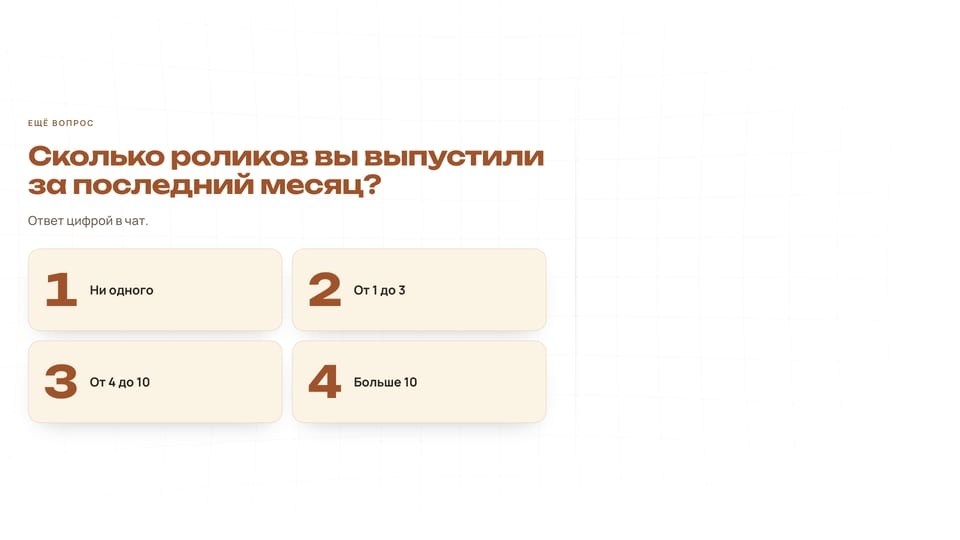
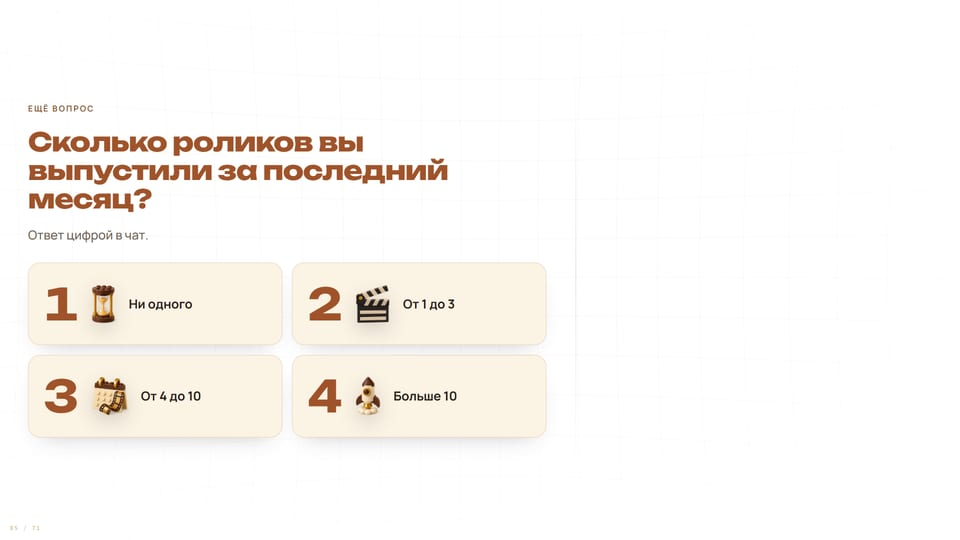
Deck: cases carousel 08c, Instagram screenshot on 08, corrected timeline 08w
- 08c: auto-carousel of three verified cases (Erickson, The One System, onAI Academy) with links to onai.academy/saint
- 08: phone removed, rounded Instagram profile screenshot, positioning as a developer without programming knowledge
- 08w: timeline 2017-2023 targeting, 2023 AI, 2025 vibe coding, August 2026 montage tech, September 2026 Instagram
- 04: icons on answer cards
- contentMinWidth 0 on text slides so the column never crosses the camera line
- cases harvest prompts for the GitHub agent (local and cloud)

diff --git a/components/montage-deck/slides/cases.tsx b/components/montage-deck/slides/cases.tsx
@@ -1,0 +1,88 @@
+"use client";
+
+import { useEffect, useState } from "react";
+import { AnimatePresence, motion } from "framer-motion";
+import { CASES, type BizCase } from "../cases";
+import { Statement } from "../Statement";
+import { T, card } from "../theme";
+import { EASE, Em, Note, txt } from "../ui";
+
+/**
+ * 08c · Что я собрал для бизнеса: автокарусель кейсов. Окно браузера с экраном решения сменяется каждые 3,4 с,
+ * за ним выглядывает следующий кейс, сверху полоса «историй» показывает, сколько решений и какое сейчас.
+ * Данные — components/montage-deck/cases.ts. Всё в левых 60% кадра.
+ */
+
+const HOLD = 3.4; // секунд на кейс
+
+/** Окно браузера: полоса с тремя точками и адресом страницы кейса, под ней экран решения. */
+function Window({ c }: { c: BizCase }) {
+  return (
+    <div className="h-full w-full overflow-hidden" style={{ ...card, borderRadius: "1.2cqw", background: T.paper, boxShadow: T.shadow }}>
+      <div className="flex items-center" style={{ gap: "0.4cqw", padding: "0.55cqw 0.8cqw", borderBottom: `1px solid ${T.line}`, background: T.card }}>
+        {[T.gold, T.brownLt, T.line].map((col, k) => <span key={k} style={{ width: "0.55cqw", height: "0.55cqw", borderRadius: 99, background: col }} />)}
+        <span style={{ ...txt, fontSize: "0.72cqw", color: T.muted, marginLeft: "0.6cqw", whiteSpace: "nowrap", overflow: "hidden", textOverflow: "ellipsis" }}>{c.url}</span>
+      </div>
+      <img src={c.shot} alt={`Экран решения: ${c.title}`} draggable={false} style={{ display: "block", width: "100%", aspectRatio: "16 / 10", objectFit: "cover", objectPosition: "top" }} />
+    </div>
+  );
+}
+
+export function M_Cases() {
+  const n = CASES.length;
+  const [i, setI] = useState(0);
+  useEffect(() => {
+    const id = setInterval(() => setI((v) => (v + 1) % n), HOLD * 1000);
+    return () => clearInterval(id);
+  }, [n]);
+  const c = CASES[i];
+  const next = CASES[(i + 1) % n];
+
+  return (
+    <Statement kicker="Вайбкодинг · решения для бизнеса" title={<>Что я собрал для бизнеса <Em>без программистов</Em></>} size="2.7cqw">
+      {/* Полоса «историй»: сколько решений и какое на экране */}
+      <div className="grid" style={{ gridTemplateColumns: `repeat(${n}, minmax(0, 1fr))`, gap: "0.6cqw", maxWidth: "54cqw", marginBottom: "1.2cqw" }}>
+        {CASES.map((x, k) => (
+          <div key={x.slug} className="min-w-0">
+            <div style={{ height: "0.35cqw", borderRadius: 99, background: `${T.brown}1F`, overflow: "hidden" }}>
+              {k < i && <div style={{ width: "100%", height: "100%", background: T.gold2 }} />}
+              {k === i && <motion.div key={`fill-${i}`} initial={{ width: "0%" }} animate={{ width: "100%" }} transition={{ duration: HOLD, ease: "linear" }}
+                style={{ height: "100%", background: `linear-gradient(90deg, ${T.gold}, ${T.gold2})` }} />}
+            </div>
+            <div style={{ ...txt, fontSize: "0.8cqw", fontWeight: 700, marginTop: "0.45cqw", color: k === i ? T.brown : T.muted, whiteSpace: "nowrap", overflow: "hidden", textOverflow: "ellipsis", transition: "color .3s" }}>{x.title}</div>
+          </div>
+        ))}
+      </div>
+
+      <div className="grid items-center" style={{ gridTemplateColumns: "32cqw minmax(0, 1fr)", gap: "2cqw", maxWidth: "54cqw" }}>
+        <div className="relative" style={{ aspectRatio: "16 / 11.3", perspective: "90cqw" }}>
+          {/* Следующий кейс выглядывает сзади снизу справа: видно, что решений больше одного, а его адресная строка спрятана за передним окном */}
+          {n > 1 && (
+            <div className="absolute inset-0" style={{ transform: "translate(1.2cqw, 1.1cqw) scale(0.95)", transformOrigin: "bottom right", opacity: 0.4, filter: "saturate(.7)" }}>
+              <Window c={next} />
+            </div>
+          )}
+          <AnimatePresence initial={false} mode="popLayout">
+            <motion.div key={c.slug} className="absolute inset-0" initial={{ opacity: 0, x: "5cqw", rotateY: -14, scale: 0.97 }} animate={{ opacity: 1, x: "0cqw", rotateY: 0, scale: 1 }}
+              exit={{ opacity: 0, x: "-5cqw", rotateY: 14, scale: 0.97 }} transition={{ duration: 0.6, ease: EASE }} style={{ transformOrigin: "center" }}>
+              <Window c={c} />
+            </motion.div>
+          </AnimatePresence>
+        </div>
+
+        <AnimatePresence mode="wait" initial={false}>
+          <motion.div key={`info-${c.slug}`} className="min-w-0" initial={{ opacity: 0, y: "0.8cqw" }} animate={{ opacity: 1, y: "0cqw" }} exit={{ opacity: 0, y: "-0.6cqw" }} transition={{ duration: 0.35, ease: EASE }}>
+            <div style={{ ...txt, fontSize: "0.85cqw", fontWeight: 700, letterSpacing: ".1em", textTransform: "uppercase", color: T.accent }}>{c.niche}</div>
+            <div style={{ fontFamily: "var(--font-unbounded)", fontWeight: 700, fontSize: "1.6cqw", lineHeight: 1.15, color: T.brown, marginTop: "0.5cqw" }}>{c.title}</div>
+            <div style={{ ...txt, fontSize: "1.2cqw", fontWeight: 700, lineHeight: 1.3, marginTop: "0.8cqw" }}>{c.oneLiner}</div>
+            <div style={{ display: "inline-block", marginTop: "1cqw", borderRadius: 14, padding: "0.6cqw 0.9cqw", border: `1px solid ${T.gold2}`, background: `${T.gold}24`, ...txt, fontSize: "0.95cqw", fontWeight: 700 }}>
+              {/* части метрики не рвутся внутри, точка остаётся в конце строки, а не в начале следующей */}
+              {c.metric.split(" · ").map((p, k, all) => <span key={k}><span style={{ whiteSpace: "nowrap" }}>{p}{k < all.length - 1 ? " ·" : ""}</span>{k < all.length - 1 ? " " : ""}</span>)}
+            </div>
+          </motion.div>
+        </AnimatePresence>
+      </div>
+      <Note style={{ marginTop: "1.3cqw", fontSize: "0.95cqw" }}>Все кейсы целиком: onai.academy/saint</Note>
+    </Statement>
+  );
+}

diff --git a/components/montage-deck/slides/start.tsx b/components/montage-deck/slides/start.tsx
@@ -144,26 +144,10 @@ export function M_Guides({ kicker, title, lead }: { kicker: string; title: strin
   );
 }
 
-/** Телефон с профилем Instagram: шапка профиля — скрин, ниже сетка рилсов, смонтированных агентом. */
-function ProfilePhone({ width = "12.4cqw" }: { width?: string }) {
-  // Рилсы агента и кадры настоящих роликов из форматов (слайд 23)
-  const grid = ["reels/mcp", "reels/zashita", "reels/google10", "reels/papka", "reels/podarok", "formats/01-polovina-ekrana", "formats/02-polovina-okno", "formats/03-kartochka-spikera", "formats/04-spiker-vnizu"];
-  return (
-    <div style={{ width, aspectRatio: "9/19", background: T.night, borderRadius: "1.9cqw", padding: "0.42cqw", boxShadow: `0 0 0 1px ${T.nightLine} inset, ${T.shadow}` }}>
-      <div className="relative h-full w-full overflow-hidden" style={{ borderRadius: "1.55cqw", background: T.paper }}>
-        <img src="/montage/profile.jpg" alt="Профиль saint4ai в Instagram: 15,6 тыс. подписчиков" style={{ display: "block", width: "100%", height: "auto", marginTop: "12%" }} />
-        <div className="grid grid-cols-3" style={{ gap: 1, marginTop: "4%" }}>
-          {grid.map((r) => <img key={r} src={`/montage/${r}.jpg`} alt="" style={{ width: "100%", aspectRatio: "3/4", objectFit: "cover", display: "block" }} />)}
-        </div>
-      </div>
-    </div>
-  );
-}
-
-/** 8 · Кто я: фото на свету, рядом скрин профиля в телефоне. alex-cacao.webp — alex.webp, где салатовый логотип на футболке перекрашен в золото бренда. */
+/** 8 · Кто я: фото на свету, рядом скрин профиля Instagram со скруглёнными углами. alex-cacao.webp — alex.webp, где салатовый логотип на футболке перекрашен в золото бренда. */
 export function M_About() {
   return (
-    <SlideLayout className="bg-transparent" background={<MontageBg tone="soft" />} objectColumnSize="25cqw" objectOverflow="visible"
+    <SlideLayout className="bg-transparent" background={<MontageBg tone="soft" />} objectColumnSize="25cqw" objectOverflow="visible" contentMinWidth={0}
       leftObject={
         <motion.div className="relative w-full h-full" initial={{ opacity: 0, y: "2cqw" }} animate={{ opacity: 1, y: "0cqw" }} transition={{ duration: 0.6, ease: EASE }}>
           {/* Свет: белый блик сверху и золотое пятно за спиной, без жёстких краёв */}
@@ -174,17 +158,19 @@ export function M_About() {
       }>
       <Rise><Kicker>Кто ведёт</Kicker></Rise>
       <Rise delay={STEP}><H size="3.4cqw">Александр</H></Rise>
-      <Rise delay={STEP * 2}><Lead style={{ marginTop: "0.8cqw", maxWidth: "31cqw" }}>Основатель onAI Academy. Собираю платформы обучения и сервисы для бизнеса с ИИ-агентами, без штатных программистов.</Lead></Rise>
-      <div className="flex items-end gap-[1.6cqw]" style={{ marginTop: "1.6cqw" }}>
-        <motion.div initial={{ opacity: 0, y: "2cqw", rotate: -4 }} animate={{ opacity: 1, y: "0cqw", rotate: 0 }} transition={{ delay: at(3, 0.2), duration: 0.55, ease: EASE }}>
-          <ProfilePhone />
-        </motion.div>
-        <Rise delay={at(4, 0.2)} style={{ paddingBottom: "0.6cqw" }}>
-          <Num size="3cqw" color={T.brown}>1000+</Num>
-          <div style={{ ...label, fontSize: "0.95cqw", color: T.muted, fontWeight: 500, maxWidth: "15cqw", marginTop: "0.6cqw" }}>выпускников за два года по внедрению ИИ в бизнес</div>
-          <Note style={{ marginTop: "1.2cqw", maxWidth: "15cqw" }}>Профиль Instagram на 26 сентября 2026</Note>
-        </Rise>
-      </div>
+      {/* Позиционирование — слова Александра 05.10: «разработчик без знаний программирования, разрабатываю IT-решения для бизнеса» */}
+      <Rise delay={STEP * 2}><Lead style={{ marginTop: "0.8cqw", maxWidth: "29cqw" }}>Разработчик без знаний программирования: собираю IT-решения для бизнеса с <span style={{ whiteSpace: "nowrap" }}>ИИ-агентами</span>. Основатель onAI Academy.</Lead></Rise>
+      {/* Скрин профиля Instagram без рамки телефона, со скруглёнными углами (правка Александра 05.10) */}
+      <motion.div initial={{ opacity: 0, y: "1.6cqw", scale: 0.97 }} animate={{ opacity: 1, y: "0cqw", scale: 1 }} transition={{ delay: at(3, 0.2), duration: 0.55, ease: EASE }}
+        style={{ marginTop: "1.6cqw", maxWidth: "29cqw" }}>
+        <img src="/montage/profile.jpg" alt="Профиль saint4ai в Instagram" draggable={false}
+          style={{ display: "block", width: "100%", height: "auto", borderRadius: "1.2cqw", border: `1px solid ${T.line}`, boxShadow: T.shadow, background: T.paper }} />
+      </motion.div>
+      <Rise delay={at(4, 0.2)} className="flex items-center" style={{ gap: "1.1cqw", marginTop: "1.4cqw", maxWidth: "29cqw" }}>
+        <Num size="3cqw" color={T.brown}>1000+</Num>
+        <div style={{ ...label, fontSize: "1cqw", color: T.muted, fontWeight: 500 }}>выпускников за два года по внедрению ИИ в бизнес</div>
+      </Rise>
+      <Note style={{ marginTop: "0.9cqw" }}>Профиль Instagram на 26 сентября 2026</Note>
     </SlideLayout>
   );
 }

diff --git a/components/montage-deck/slides/warmup.tsx b/components/montage-deck/slides/warmup.tsx
@@ -76,21 +76,22 @@ export const Bridge = ({ i, children }: { i: number; children: ReactNode }) => (
 );
 
 /**
- * 08w · Хронология: как я пришёл к ИИ-монтажу. Главный этап — 2 месяца учил агентов премиальному монтажу
- * (слова Александра 04.10). Путь без денег (деньги — на 09), последний шаг — сегодня, в конце мост к цифрам 10v–10i.
+ * 08w · Хронология: путь от таргетолога до ИИ-монтажа. Даты — слова Александра 05.10: таргетолог 2017–2023, с 2023 внедряет ИИ
+ * (три года), с 2025 вайбкодинг (продукты и платформы), в августе 2026 готовил технологию ИИ-монтажа и обучал агентов,
+ * в сентябре вернулся в Instagram и до 30.09 вёл контент с ИИ. Деньги — на 09, в конце мост к кейсам 08c и цифрам 10.
  */
 export function M_MyPath() {
   return (
-    <Statement kicker="Хронология" title={<>Как я пришёл <Em>к ИИ-монтажу</Em></>} size="2.8cqw">
+    <Statement kicker="Хронология" title={<>От таргетолога <Em>до <span style={{ whiteSpace: "nowrap" }}>ИИ-монтажа</span></Em></>} size="2.8cqw">
       <Path dt={0.2} steps={[
-        { when: "Начинал", what: "Таргетолог", text: "Запускал рекламу клиентам" },
-        { when: "3 года", what: "No-code и вайбкодинг", text: "ИИ-менеджеры для бизнеса, потом свои продукты на Claude без штатных программистов" },
-        { when: "Апрель 2026", what: "Вернулся в Instagram", text: <Fill>сколько часов уходило на монтаж одного ролика до агента</Fill> },
-        { when: <Fill>месяцы</Fill>, what: "2 месяца учил агентов премиальному монтажу", text: "9 стилей и 6 форматов: агент собирает ролик сам" },
-        { when: "Сейчас", what: "Рилсы монтирует агент — и они приводят клиентов", text: <Fill>момент, когда решил отдать монтаж агенту</Fill>, now: true },
+        { when: "2017–2023", what: "Таргетолог", text: "Запускал рекламу клиентам" },
+        { when: "2023", what: "Начал внедрять ИИ в бизнес", text: "ИИ-менеджеры и автоматизации для клиентов" },
+        { when: "2025", what: "Вайбкодинг", text: "Собираю продукты и платформы для бизнеса без знаний программирования" },
+        { when: "Август 2026", what: "Обучил агентов премиальному монтажу", text: "9 стилей и 6 форматов: агент собирает ролик сам" },
+        { when: "Сентябрь 2026", what: "Вернулся в Instagram: ролики монтирует агент", text: "Весь месяц выпускал контент с ИИ, и он приводит клиентов", now: true },
       ]} />
-      <Note style={{ marginTop: "1.1cqw" }}>Эти два месяца вам повторять не нужно: стили и форматы остаются у вас после обучения</Note>
-      <Bridge i={7}>Что это дало — в цифрах</Bridge>
+      <Note style={{ marginTop: "1.1cqw" }}>Подготовку технологии вам повторять не нужно: стили и форматы остаются у вас после обучения</Note>
+      <Bridge i={7}>Что я уже собрал для бизнеса</Bridge>
     </Statement>
   );
 }

diff --git a/components/montage-deck/cases.ts b/components/montage-deck/cases.ts
@@ -1,0 +1,45 @@
+/**
+ * Кейсы для карусели 08c «Что я собрал для бизнеса».
+ * Сейчас три кейса, уже упакованные для сайта onai.academy/saint: факты из CASE_SOURCES.md и пакетов кейсов (срез 04.10.2026),
+ * кадры — обезличенные скриншоты из projects/saint_landing/public/assets/cases (уменьшены до 1600×1000).
+ * Новые кейсы добавляет агент-сборщик (docs/tasks/cases_harvest_prompt.md): из cases.json сюда переносятся title, niche, oneLiner, metric, shot, url.
+ */
+export type BizCase = {
+  slug: string;
+  title: string; // название решения или клиента, если клиент разрешил
+  niche: string; // для кого
+  oneLiner: string; // что даёт бизнесу, до 9 слов
+  metric: string; // проверенные цифры через «·»
+  shot: string; // кадр 16:10 в public/montage/cases/
+  url: string; // страница кейса без https://
+};
+
+export const CASES: BizCase[] = [
+  {
+    slug: "erickson",
+    title: "Erickson Central Asia",
+    niche: "Коучинговый университет",
+    oneLiner: "Платформа обучения с AI-куратором и менторингами",
+    metric: "50 студентов · 81 урок · запуск за 2 месяца",
+    shot: "/montage/cases/erickson.webp",
+    url: "onai.academy/saint/cases/erickson",
+  },
+  {
+    slug: "the-one-system",
+    title: "The One System",
+    niche: "Бизнес-школа, Алматы",
+    oneLiner: "Своя платформа обучения с AI за 9 недель",
+    metric: "78 экранов · 3 роли · 2 языка",
+    shot: "/montage/cases/the-one-system.webp",
+    url: "onai.academy/saint/cases/the-one-system",
+  },
+  {
+    slug: "onai-academy",
+    title: "onAI Academy",
+    niche: "Моя онлайн-школа",
+    oneLiner: "AI-наставник отвечает ученикам по каждому уроку",
+    metric: "318 учеников · 113 уроков · 595 вопросов наставнику",
+    shot: "/montage/cases/onai-academy.webp",
+    url: "onai.academy/saint/cases/onai-academy",
+  },
+];

diff --git a/components/montage-deck/MontageDeck.tsx b/components/montage-deck/MontageDeck.tsx
@@ -19,6 +19,7 @@ import { M_Bottleneck, M_Vacancy, M_ThreeSeconds, M_OnePhrase, M_OneOf14, M_Agen
 import { M_Case107, M_Want, M_WhoFirst, M_NotCourse, M_Anchor, M_Installments, M_Discount, M_SixMonths, M_HowToBook, M_Inaction, M_OneScreen, M_Doubts, M_Subscriptions, M_Slots, M_FinalCTA, M_GameBonus } from "./slides/sale";
 import { M_ShopReel, M_ShopAd, M_ShopLead, M_ForYou, M_SoloVsCourse } from "./slides/directions";
 import { M_MyPath } from "./slides/warmup";
+import { M_Cases } from "./slides/cases";
 import { M_ResultMontage, M_ViralReels, M_Growth30, M_Inquiries } from "./slides/results";
 import { M_CodeWordFlow, M_Plan30, M_Thanks } from "./slides/lesson3";
 import { M_IntroVideo } from "./slides/intro";
@@ -38,13 +39,14 @@ export function MontageDeck({ shots = {} }: { shots?: Shots }) {
       options={["Эксперт, у меня свой продукт", "Не хочу сниматься сам", "SMM, делаю рилсы для клиентов", "Хочу брать заказы на монтаж"]}
       icons={["lg-i-stall", "lg-i-camera", "lg-i-phones", "lg-i-laptopcoins"]} />,
     <M_Poll key="04" kicker="Ещё вопрос" title="Сколько роликов вы выпустили за последний месяц?" lead="Ответ цифрой в чат."
-      options={["Ни одного", "От 1 до 3", "От 4 до 10", "Больше 10"]} />,
+      options={["Ни одного", "От 1 до 3", "От 4 до 10", "Больше 10"]} icons={["lg-i-hourglass", "lg-i-clapper", "lg-i-calfilm", "lg-i-rocket"]} />,
     <M_Program key="05" />,
     <M_Promise key="06" />,
     <M_Guides key="07" kicker="Бонус за досмотр" title={"Досмотрите до конца: три\u00A0гайда"} lead="Выдам в конце эфира по слову МОНТАЖ." />,
     // Кто я, хронология и результаты · 7 мин
     <M_About key="08" />,
     <M_MyPath key="08w" />,
+    <M_Cases key="08c" />,
     <M_CostStory key="09" />,
     <M_Proof15 key="10" />,
     <M_ViralReels key="10v" shots={shots.viral} />,

diff --git a/components/montage-deck/slides/sale.tsx b/components/montage-deck/slides/sale.tsx
@@ -77,7 +77,7 @@ export function M_Case107() {
 /** 31 · Хотите так же? ХОЧУ. */
 export function M_Want() {
   return (
-    <SlideLayout className="bg-transparent" background={<MontageBg tone="soft" />}>
+    <SlideLayout className="bg-transparent" background={<MontageBg tone="soft" />} contentMinWidth={0}>
       <Rise><Kicker>Напишите в чат</Kicker></Rise>
       <BigWord word="ХОЧУ" size="10cqw" />
       <Rise delay={0.5}><H size="2.4cqw" style={{ marginTop: "1.6cqw" }}>если хотите монтировать <Em>так же</Em></H></Rise>
@@ -394,7 +394,7 @@ export function M_Slots() {
 /** 57 · Финальный призыв: МОНТАЖ золотом, пульс золотой кнопки, условия чипами. */
 export function M_FinalCTA() {
   return (
-    <SlideLayout className="bg-transparent" background={<MontageBg tone="soft" />}>
+    <SlideLayout className="bg-transparent" background={<MontageBg tone="soft" />} contentMinWidth={0}>
       <Rise><Kicker>Напишите в чат до 23:59</Kicker></Rise>
       <div className="flex items-center gap-[1.6cqw]"><BigWord word="МОНТАЖ" size="8cqw" /><Px name="lg-i-hourglass" size="9cqw" delay={0.7} /></div>
       <div className="flex flex-wrap gap-[0.6cqw]" style={{ marginTop: "2cqw", maxWidth: "52cqw" }}>

diff --git a/components/montage-deck/Statement.tsx b/components/montage-deck/Statement.tsx
@@ -16,7 +16,8 @@ export function Statement({ kicker, title, lead, children, tone = "paper", size 
 }) {
   const night = tone === "night" || tone === "ink";
   return (
-    <SlideLayout className="bg-transparent" background={<MontageBg tone={tone} />} leftObject={left} objectColumnSize={leftSize} objectOverflow={leftOverflow}>
+    // contentMinWidth 0: текстовая колонка всегда ровно до границы зоны камеры (60%), в узком окне не вылезает за линию
+    <SlideLayout className="bg-transparent" background={<MontageBg tone={tone} />} leftObject={left} objectColumnSize={leftSize} objectOverflow={leftOverflow} contentMinWidth={0}>
       {obj && <Px name={obj} size={objSize} style={{ marginBottom: "0.4cqw", marginLeft: "-0.9cqw" }} />}
       {kicker && <Rise><Kicker color={night ? T.gold : T.accent}>{kicker}</Kicker></Rise>}
       <Rise delay={STEP}><H size={size} color={night ? T.nightText : T.brown}>{title}</H></Rise>

diff --git a/components/montage-deck/slides/lesson3.tsx b/components/montage-deck/slides/lesson3.tsx
@@ -262,7 +262,7 @@ export function M_Plan30() {
 /** 59 ✦ · Спасибо. Ночной, фоном тот же тоннель свежих скринов и видео рилсов, что на обложке (CoverTunnel, карточки COVER_CARDS). Без контактов. */
 export function M_Thanks() {
   return (
-    <SlideLayout className="bg-transparent" background={<MontageBg tone="night"><CoverTunnel cards={COVER_CARDS} /></MontageBg>}>
+    <SlideLayout className="bg-transparent" background={<MontageBg tone="night"><CoverTunnel cards={COVER_CARDS} /></MontageBg>} contentMinWidth={0}>
       <div style={{ maxWidth: "31cqw" }}>
         <Rise><BrandLogo night height="1.8cqw" style={{ marginBottom: "3cqw" }} /></Rise>
         <Rise delay={STEP}><H size="4.2cqw" color={T.nightText} style={{ lineHeight: 1.05 }}>Спасибо,<br /><Em night><span style={{ whiteSpace: "nowrap" }}>что пришли</span></Em></H></Rise>

diff --git a/components/montage-deck/slides/lesson1.tsx b/components/montage-deck/slides/lesson1.tsx
@@ -333,7 +333,7 @@ export function M_StepAssemble() {
 /** 22 · Готовый ролик: телефон по центру левой зоны; слева подпись, справа чипы. */
 export function M_ReadyReel() {
   return (
-    <SlideLayout className="bg-transparent" background={<MontageBg />} contentClassName="items-center text-center">
+    <SlideLayout className="bg-transparent" background={<MontageBg />} contentClassName="items-center text-center" contentMinWidth={0}>
       <Rise><Kicker>Результат</Kicker></Rise>
       <Rise delay={STEP}><H size="3.4cqw">Готовый ролик</H></Rise>
       <div className="flex items-center justify-center gap-[2cqw]" style={{ marginTop: "2cqw", width: "100%" }}>

diff --git a/components/montage-deck/slides/M_Chapter.tsx b/components/montage-deck/slides/M_Chapter.tsx
@@ -17,7 +17,7 @@ export function M_Chapter({ big, kicker, title, sub, bigSize = "16cqw", obj }: {
   };
   const after = 0.45; // заголовок — сразу за цифрой
   return (
-    <SlideLayout className="bg-transparent" background={<MontageBg tone="night"><VoxelField /></MontageBg>}>
+    <SlideLayout className="bg-transparent" background={<MontageBg tone="night"><VoxelField /></MontageBg>} contentMinWidth={0}>
       <style>{`@keyframes ch-shine { from { background-position: 160% 0; } to { background-position: -60% 0; } }`}</style>
       <div className="flex items-end gap-[1.6cqw]">
         <motion.div className="relative" initial={{ opacity: 0, y: "3cqw", scale: 0.9 }} animate={{ opacity: 1, y: "0cqw", scale: 1 }}

diff --git a/components/montage-deck/slides/directions.tsx b/components/montage-deck/slides/directions.tsx
@@ -121,7 +121,7 @@ function Shop({ active, kicker, title, visual, side, lessons, conveyorStart }: {
   active: number; kicker: string; title: ReactNode; visual: ReactNode; side: ReactNode; lessons: string[]; conveyorStart: number;
 }) {
   return (
-    <SlideLayout className="bg-transparent" background={<MontageBg />}>
+    <SlideLayout className="bg-transparent" background={<MontageBg />} contentMinWidth={0}>
       <ChainHeader active={active} />
       <Rise><Kicker color={T.accent}>{kicker}</Kicker></Rise>
       <Rise delay={STEP}><H size="2.7cqw" color={T.brown}>{title}</H></Rise>

diff --git a/docs/tasks/cases_harvest_prompt_cloud.md b/docs/tasks/cases_harvest_prompt_cloud.md
@@ -1,0 +1,37 @@
+# Промпт облачному агенту в GitHub: собрать все решения Александра в кейсы
+
+## Перед запуском (сделать один раз, 2 минуты)
+
+1. Создайте в GitHub пустой приватный репозиторий `saint4ai/business-cases`. Это «хаб»: агент складывает туда результат.
+2. Откройте настройки приложения Claude в GitHub (Settings → Applications → Installed GitHub Apps → Claude → Configure) и дайте доступ **All repositories** для аккаунта `saint4ai` и для организаций `onaicademy` и `aoneagency001-maker`. Без этого облачный сеанс видит только репозиторий, в котором запущен.
+3. Запустите новый облачный сеанс Claude Code на репозитории `saint4ai/business-cases` и вставьте блок ниже целиком.
+
+Почему так: по документации Claude Code облачный сеанс работает в одном репозитории, а остальные читает через доступ приложения GitHub. Если в вашем тарифе есть «Проекты» (несколько облачных сеансов на одну задачу), можно раздать репозитории по сеансам, но хаб для результата всё равно один.
+
+```
+Ты собираешь портфолио Александра Saint (@saint4ai, основатель onAI Academy). Он разработчик без знаний программирования: с 2023 года внедряет ИИ в бизнес, с 2025 года собирает IT-решения для бизнеса вайбкодингом (ставит задачи агенту Claude Code, код пишет агент). Задача: найти во ВСЕХ его репозиториях решения для бизнеса и упаковать каждое в кейс. Результат пойдёт в автокарусель «Что я собрал для бизнеса» в презентации эфира и на страницы onai.academy/saint/cases/.
+
+Ты работаешь в репозитории-хабе saint4ai/business-cases. Все остальные репозитории только читаешь: не коммить в них, не открывай в них PR и issues, не меняй приватность.
+
+ШАГ 0. ДОСТУП. Выполни для каждого владельца: gh repo list saint4ai --limit 300 --json name,description,updatedAt,isPrivate,url (то же для onaicademy и aoneagency001-maker). Попробуй клонировать один приватный репозиторий каждого владельца в /tmp/src (git clone --depth 50). Если списка или клона нет, остановись и напиши Александру, какие владельцы недоступны и что в настройках приложения Claude в GitHub нужно включить All repositories. Токены и пароли не проси.
+
+ЭТАЛОН ФОРМАТА. Готовые пакеты кейсов в репозиториях saint4ai/onai-academy-case, saint4ai/erickson-academy-case, saint4ai/the-one-system-case: README.md, CASE.md, FACTS.md, SCREENSHOTS.md, screenshots/. Прочитай все три целиком до начала. Эти кейсы и AI-Таргетолог (aoneagency001-maker/AI-targetolog, продукт https://app.aoneagency.kz, страница https://onai.academy/saint/cases/ai-targetolog/) не переупаковывай, только внеси в общий список. Если для AI-Таргетолога нет FACTS и CASE, собери их.
+
+ШАГ 1. ИНВЕНТАРИЗАЦИЯ → INVENTORY.md в хабе. Таблица по каждому репозиторию: что это одной строкой; для кого (ниша клиента или свой продукт); статус (прод / пилот / демо / заброшен); живая ссылка, если есть в README, package.json, конфиге деплоя; даты первого и последнего коммита; решение для бизнеса или нет (служебные скрипты, форки, эксперименты, курсы, личные настройки — «нет»). Сгруппируй решения: платформы обучения, CRM и аналитика, боты и ИИ-менеджеры, сайты и лендинги, автоматизации, внутренние сервисы.
+
+ШАГ 2. СОГЛАСОВАНИЕ. Закоммить INVENTORY.md и напиши Александру в этом сеансе список кандидатов: номер, название, одна строка, статус. Он отметит, что упаковывать и что нельзя показывать (имена клиентов, закрытые проекты). Без его ответа к шагу 3 не переходи.
+
+ШАГ 3. ПАКЕТЫ. По каждому одобренному решению папка cases/<slug>/ как в эталоне:
+- README.md: задача кейса, читатель, карта папки.
+- CASE.md: блоки «задача → решение → как работает → результат было/стало». Один блок одна мысль, заголовок блока несёт вывод.
+- FACTS.md: каждая цифра с источником (файл и коммит, README, живая страница, слова Александра с датой). Непроверенное помечай «нет»: на страницу не выносится.
+- SCREENSHOTS.md: список нужных кадров (URL или экран, что должно быть видно, размер 1440×900, для телефона 390×844, что размыть).
+- screenshots/: попробуй снять живые публичные страницы безголовым браузером (npx playwright install chromium, затем скрипт). Если браузер в среде не запускается, кадры не подделывай и не рисуй: оставь список в SCREENSHOTS.md, их снимет локальная сессия. Персональные данные, названия клиентов без разрешения, ключи и .env в кадр не попадают.
+
+ШАГ 4. СВОДКА → cases.json в корне хаба, массив:
+{ "slug", "title", "niche" (без имени клиента, если не разрешено), "one_liner" (до 9 слов, результат для бизнеса), "what" (до 15 слов), "metric" (одна проверенная цифра с подписью или null), "metric_source", "status" ("прод" | "пилот" | "демо"), "period" ("08.2025–10.2025"), "stack_note", "screenshot" (путь к главному кадру или null), "screenshot_todo" (что снять, если кадра нет), "case_url" (страница кейса или null), "public" (можно ли показывать на эфире) }.
+
+ШАГ 5. ОТЧЁТ → REPORT.md: сколько репозиториев просмотрено, сколько решений найдено и упаковано, что не проверено, какие кадры осталось снять, вопросы Александру. Коммить в ветку cases/harvest хаба и открой один PR в хабе.
+
+ПРАВИЛА: факты только из источников, клиентов и цифры не придумывать; тексты по-русски, коротко, без длинных тире и штампов; на серверы не заходить и ничего не деплоить; если не уверен, спроси Александра.
+```
